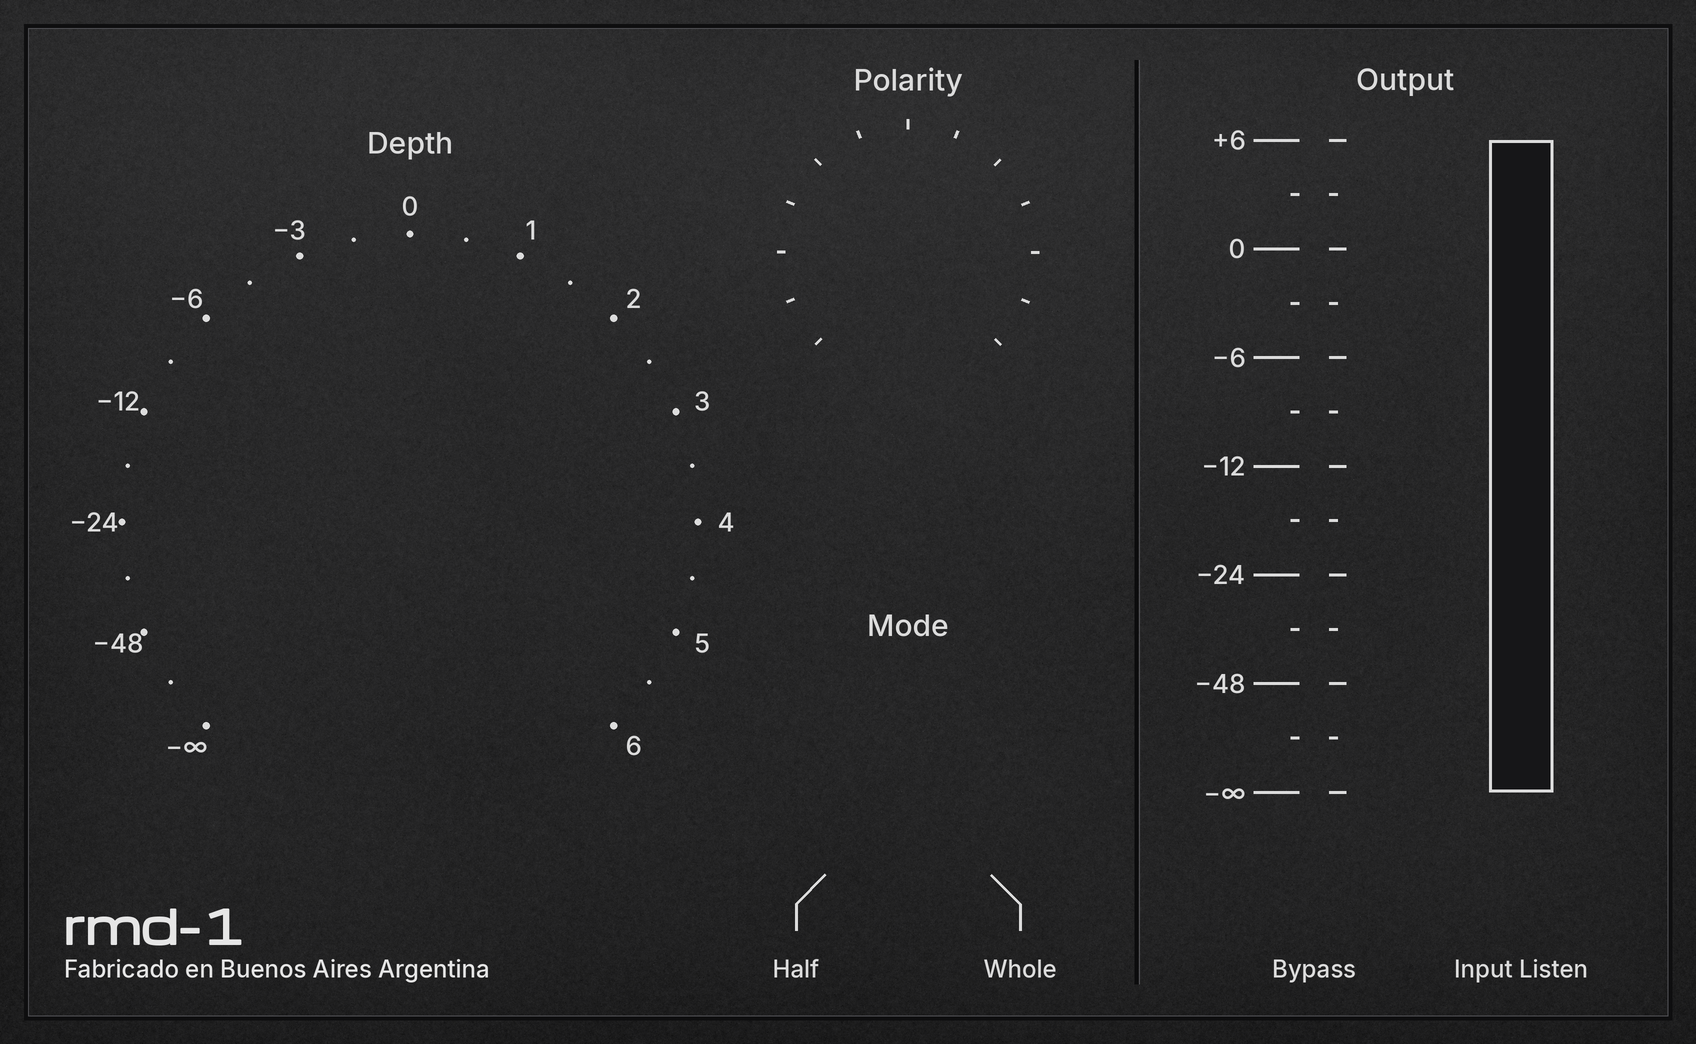
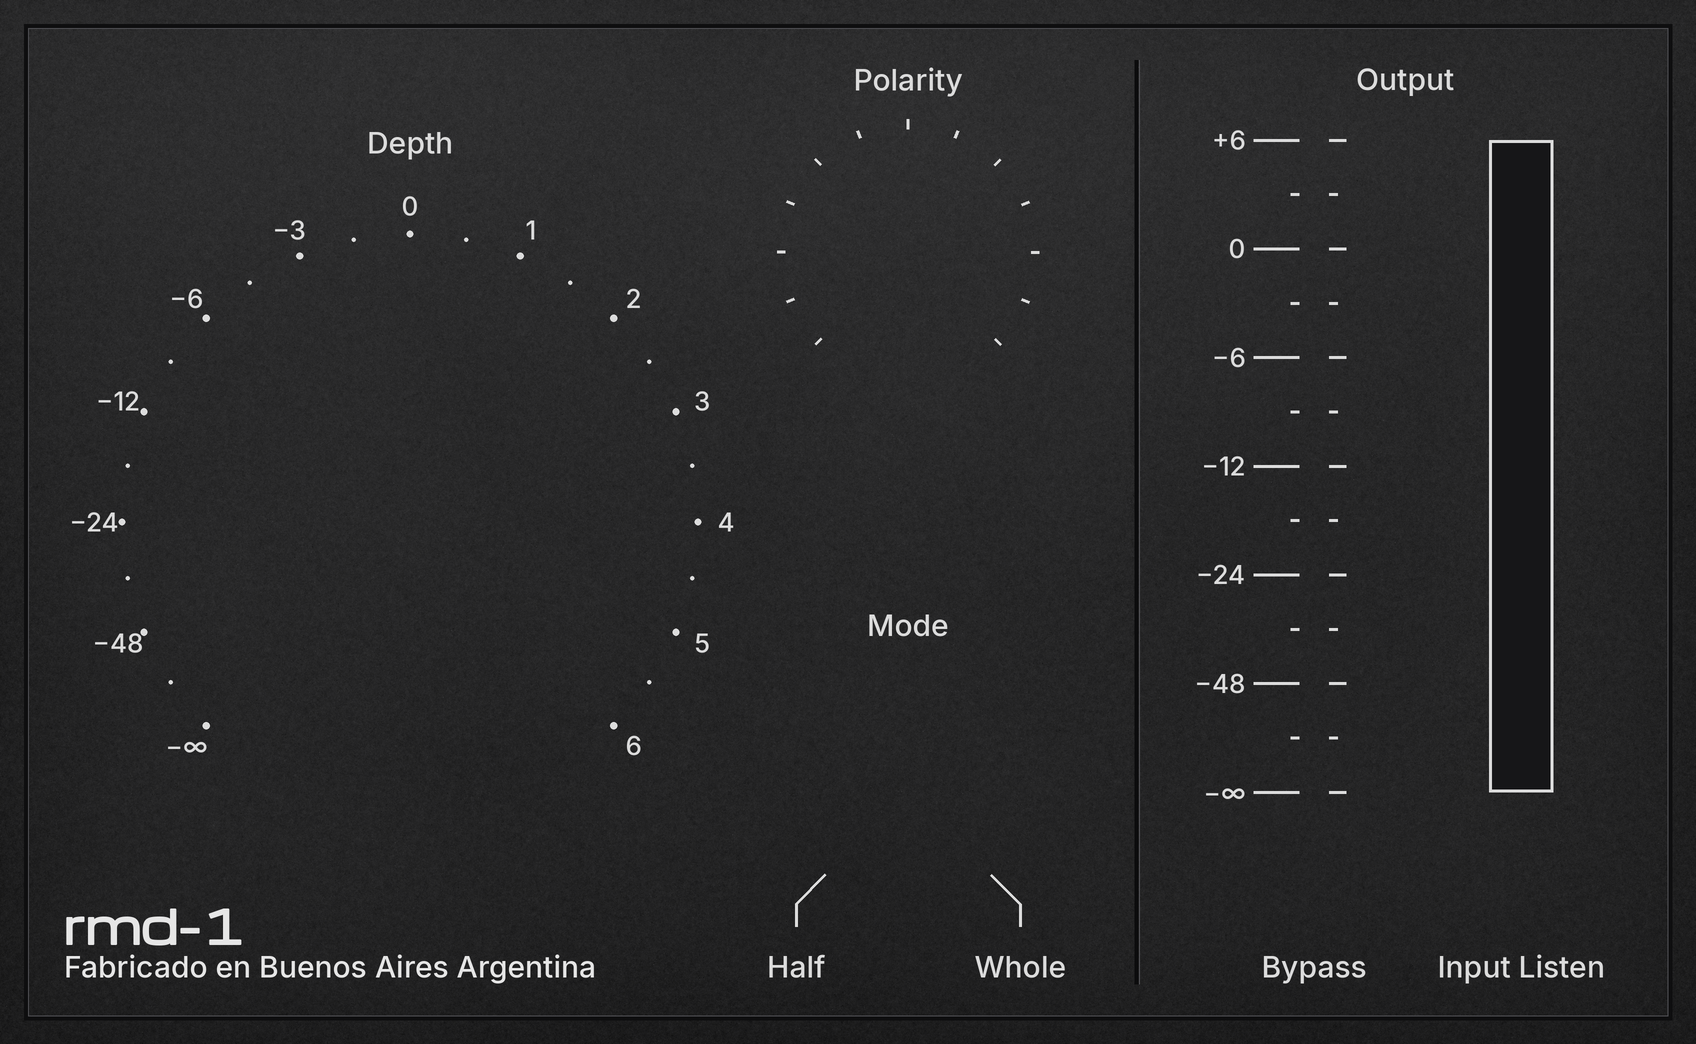
Half/Whole, Bypass/Input Listen y Fabricado: 24 -> 30 [skip ci]
Claude-Session: https://claude.ai/code/session_01LmYTuHAKQSU8qhR6nNkVAi

diff --git a/UI_definitiva/generadores/bg_gen.py b/UI_definitiva/generadores/bg_gen.py
@@ -58,7 +58,7 @@ dtit(410,'Depth',dt-49)
 ctitle(908,'Polarity',YM)
 dtit(908,'Mode',mb-224)
 ctitle(1405,'Output',YM); pass
-bf=FM(24); GAP_T=10
+bf=FM(30); GAP_T=10
 bb=d.textbbox((0,0),'Input Listen',font=bf,anchor='ls'); th=(-bb[1])/S; desc=bb[3]/S
 unit=64+GAP_T+th+desc; gap=((H-24)-db-unit)/2
 by0=db+gap; by1=by0+64
